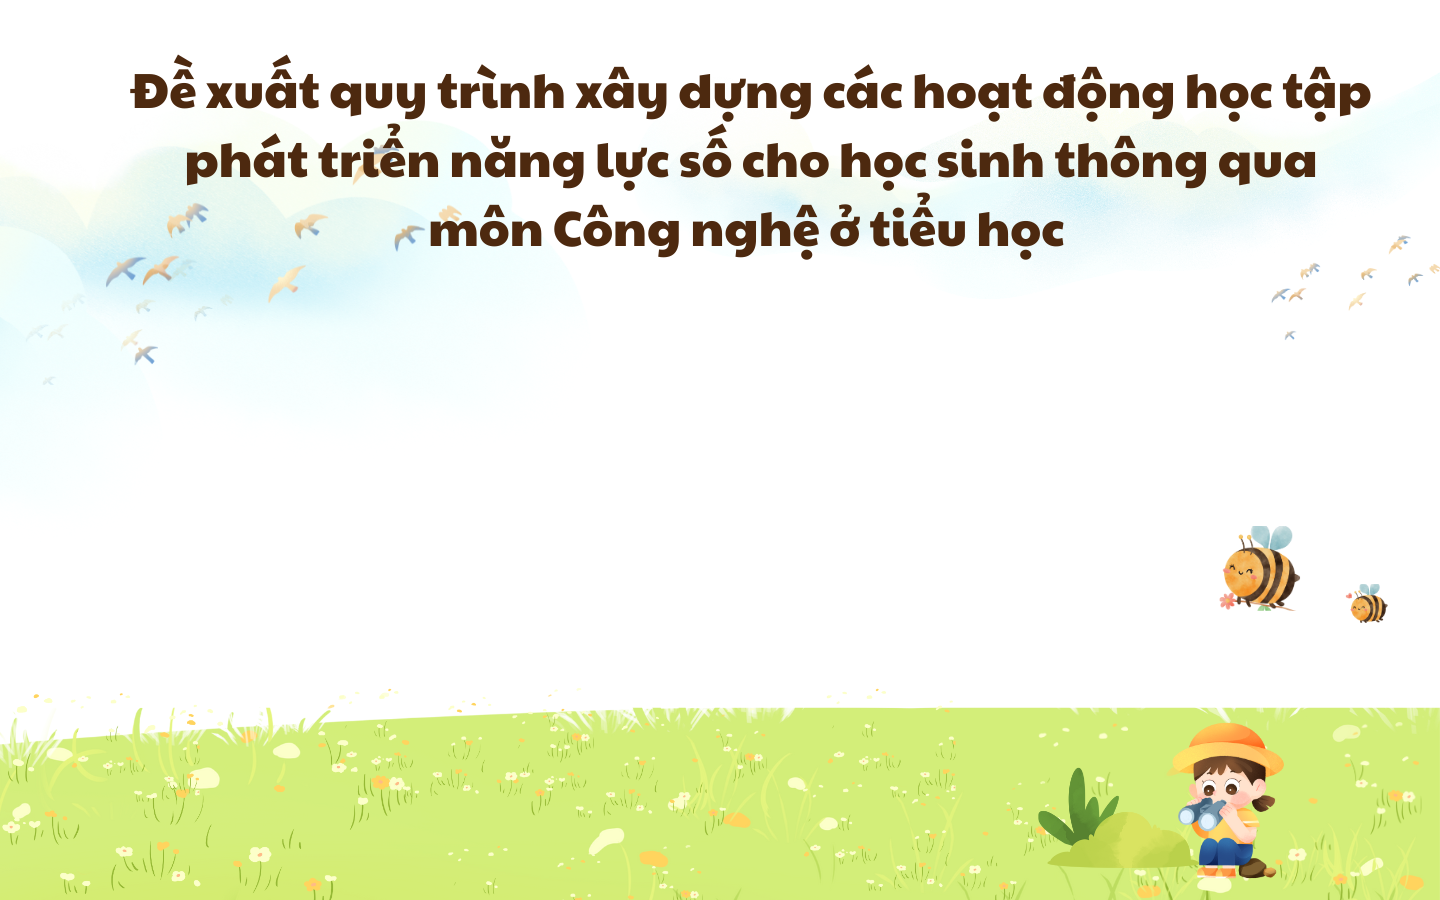
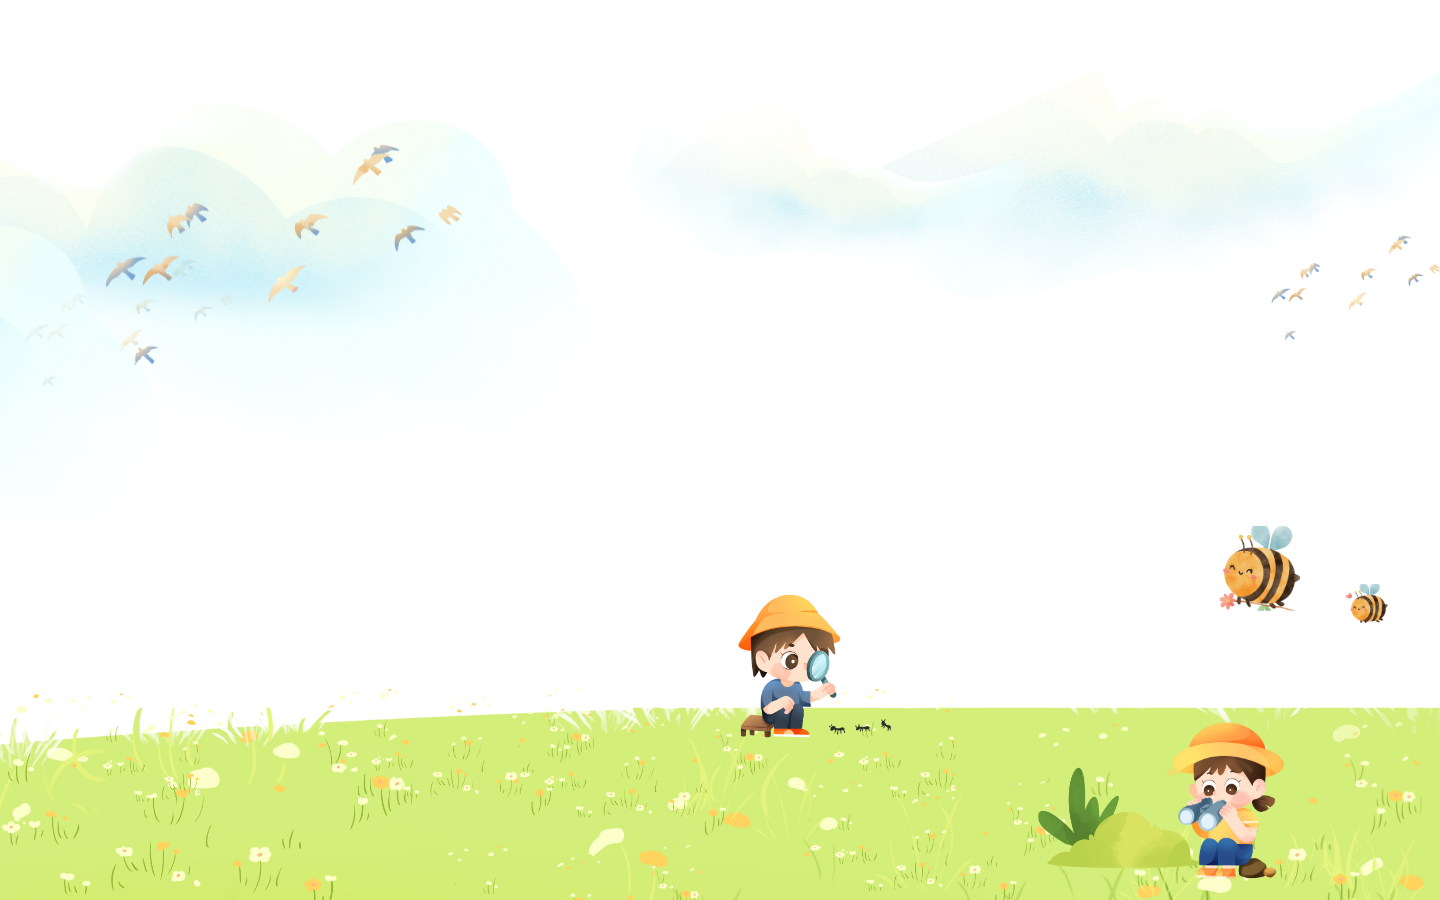
fix

Changed region(s): [[0.0938, 0.0622, 0.9688, 0.28], [0.5, 0.6533, 0.5938, 0.84]]

diff --git a/src/components/TeachingProcess/TeachingProcess.jsx b/src/components/TeachingProcess/TeachingProcess.jsx
@@ -10,6 +10,10 @@ export const TeachingProcess = () => {
     <section id="teaching-process">
       <Container style={{ marginTop: "2.5rem" }}>
         <ListGroup variant="flush">
+          <h4 className="fw-bold text-capitalize text-center">
+            Quy trình xây dựng các hoạt động học tập phát triển năng lực số cho học sinh
+            thông qa các môn Công nghệ ở tiểu học
+          </h4>
           {DATA_PROCESSING.map((step, idx) => (
             <ListGroup.Item
               key={step.id}

diff --git a/src/components/ClassSection/ClassSection.jsx b/src/components/ClassSection/ClassSection.jsx
@@ -354,7 +354,9 @@ const ClassSection = () => {
     <section id="class-section">
       <Container>
         <div className="text-center mb-4 mt-5">
-          <h2>Sổ tay</h2>
+          <h4 className="fw-bold text-capitalize text-center">
+            Sổ tay
+          </h4>
           {/* <h3>
             Bồi dưỡng năng lực số cho học sinh tiểu học thông qua môn Công nghệ
           </h3> */}

diff --git a/src/components/LessonIllustration/LessonIllustration.jsx b/src/components/LessonIllustration/LessonIllustration.jsx
@@ -135,7 +135,6 @@ const handleSaveIllustration = async (item) => {
                   left: 0,
                   width: "100%",
                   height: "100%",
-                  backgroundColor: "rgba(0, 0, 0, 0.4)", // lớp phủ để chữ dễ nhìn
                   borderRadius: "12px",
                   padding: "2rem",
                 }}

diff --git a/src/components/LessonIllustration/LessonIllustration.css b/src/components/LessonIllustration/LessonIllustration.css
@@ -22,8 +22,8 @@
 
 .cards-container {
   position: absolute;
-  right: 2rem;
-  top: 50%;
+  right: 25rem;
+  top: 70%;
   transform: translateY(-50%);
   display: flex;
   flex-direction: column;
